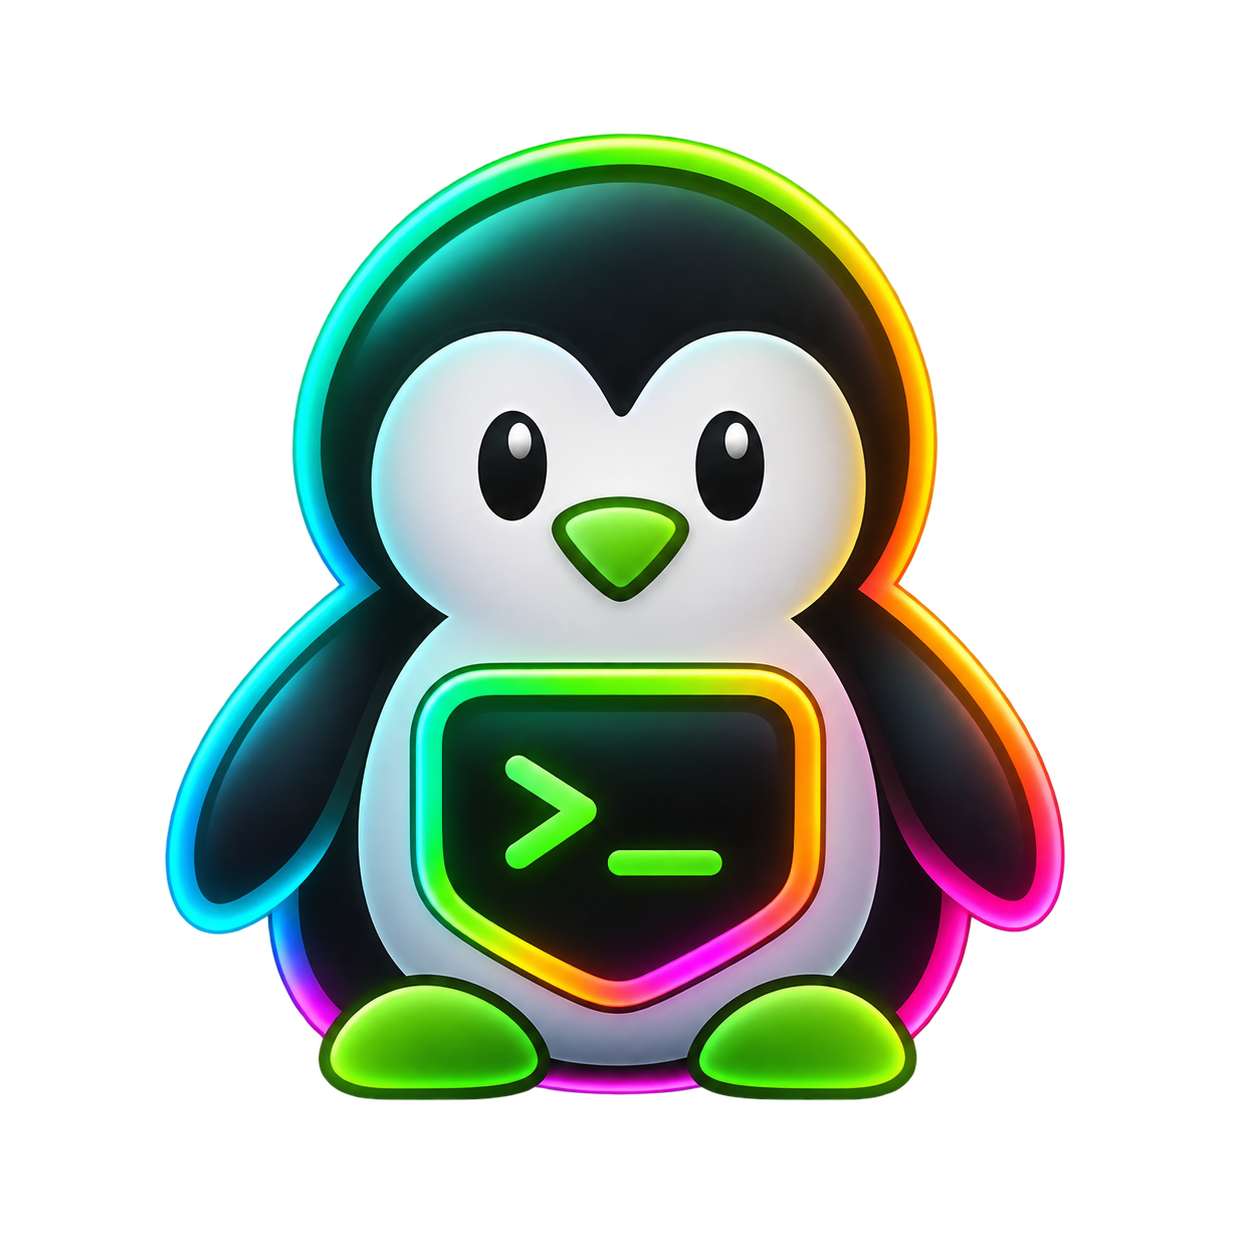
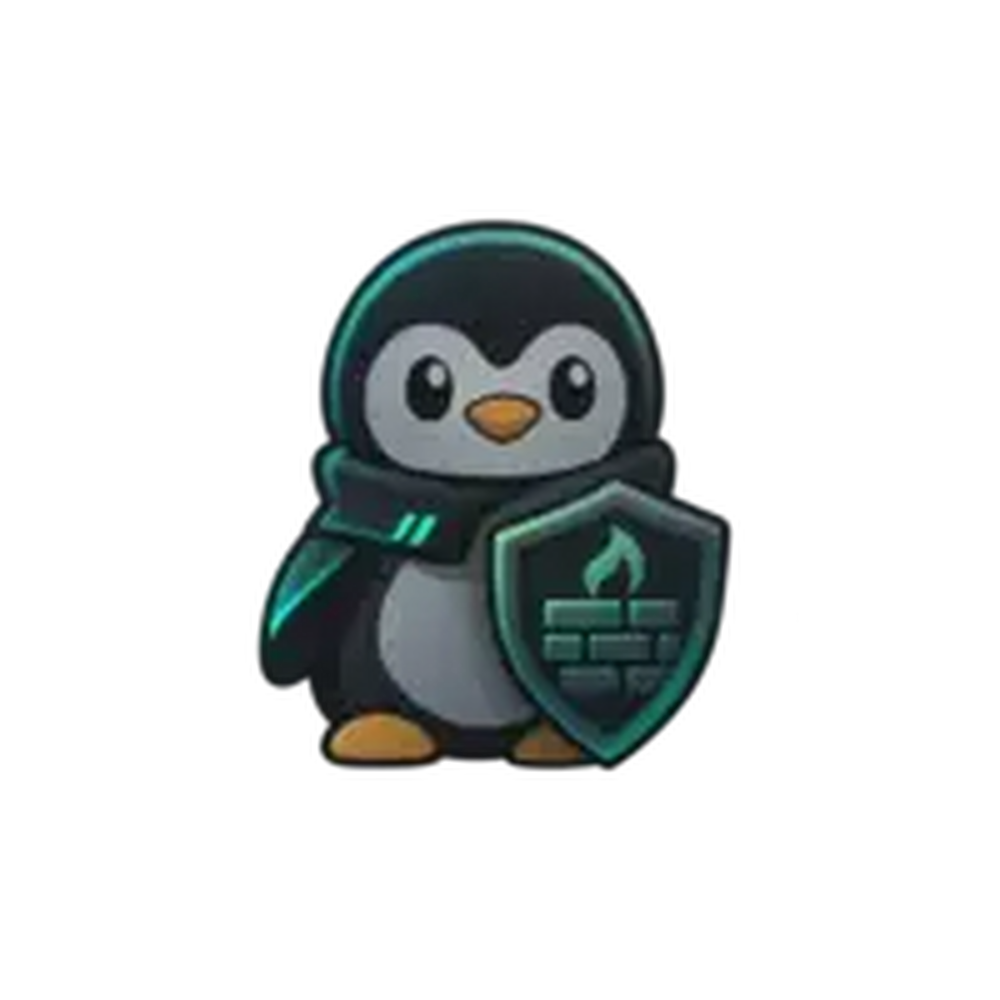
Add safe counter reset and muted shield branding for beta3

diff --git a/android/app/src/main/java/io/github/pocketufw/FirewallClient.kt b/android/app/src/main/java/io/github/pocketufw/FirewallClient.kt
@@ -39,7 +39,8 @@ internal class FirewallClient(private val context: Context) {
         val ipv4Replies: Long? = null,
         val ipv6Replies: Long? = null,
         val checkedAt: Long = 0L,
-        val error: String? = null
+        val error: String? = null,
+        val lastManualResetAt: Long = 0L
     ) {
         val measured: Boolean
             get() = error == null && ipv4Blocked != null && ipv6Blocked != null &&
@@ -145,7 +146,7 @@ internal class FirewallClient(private val context: Context) {
     private fun bridge(action: String, args: List<String> = emptyList()): ShellResult {
         check(action in setOf("inspect", "enable", "disable",
             "enable-restore", "toggle", "toggle-restore",
-            "boot-enable", "boot-disable", "vpn-refresh", "set-ports", "use-auto"))
+            "boot-enable", "boot-disable", "vpn-refresh", "reset-counters", "set-ports", "use-auto"))
         check((action == "set-ports" && args.size == 3) ||
             (action != "set-ports" && args.isEmpty()))
         val path = File(engineDir, "android-bridge").absolutePath
@@ -240,7 +241,8 @@ internal class FirewallClient(private val context: Context) {
                     ipv4Blocked = counts[0], ipv6Blocked = counts[1],
                     ipv4Bytes = counts[2], ipv6Bytes = counts[3],
                     ipv4Replies = counts[4], ipv6Replies = counts[5],
-                    checkedAt = System.currentTimeMillis()
+                    checkedAt = System.currentTimeMillis(),
+                    lastManualResetAt = preferences.getLong("last_counter_reset_at", 0L)
                 )
             }
         } else null
@@ -289,8 +291,13 @@ internal class FirewallClient(private val context: Context) {
         return (try {
             prepareEngine()
             val result = bridge(action, args)
-            val dashboard = dashboardFrom(result, vpn)
             val values = fields(result.text)
+            if (action == "reset-counters" && result.succeeded &&
+                values["operation"] == "SUCCESS" && values["state"] == "ACTIVE") {
+                preferences.edit()
+                    .putLong("last_counter_reset_at", System.currentTimeMillis()).apply()
+            }
+            val dashboard = dashboardFrom(result, vpn)
             val success = dashboard.snapshot.rootReady && values["operation"] == "SUCCESS"
             val message = if (!dashboard.snapshot.rootReady) {
                 "Root access is needed for this action."
@@ -328,6 +335,9 @@ internal class FirewallClient(private val context: Context) {
         performAction(if (enabled) "boot-enable" else "boot-disable")
 
     fun refreshVerifiedPorts(): Operation = performAction("vpn-refresh")
+
+    /** Reset ONLY PocketUFW-owned netfilter counters, with no rule changes. */
+    fun resetCounters(): Operation = performAction("reset-counters")
 
     private fun normalizeManualPort(value: String): String {
         val candidate = value.trim()

diff --git a/android/app/src/main/java/io/github/pocketufw/MainActivity.kt b/android/app/src/main/java/io/github/pocketufw/MainActivity.kt
@@ -430,6 +430,12 @@ private fun PocketScreen(client: FirewallClient) {
                                 val checked = DateFormat.getTimeInstance(DateFormat.SHORT)
                                     .format(Date(activity.checkedAt))
                                 Text("Last checked: " + checked, color = Muted, fontSize = 12.sp)
+                                if (activity.lastManualResetAt > 0L) {
+                                    val resetAt = DateFormat.getTimeInstance(DateFormat.SHORT)
+                                        .format(Date(activity.lastManualResetAt))
+                                    Text("Last manual counter reset: " + resetAt,
+                                        color = Muted, fontSize = 12.sp)
+                                }
                             } else {
                                 Text(
                                     activity?.error ?: "Waiting for the kernel counter read.",
@@ -446,7 +452,7 @@ private fun PocketScreen(client: FirewallClient) {
                                 color = Muted, fontSize = 12.sp)
                             Text(
                                 "These are real matches on PocketUFW rules, not detected attacks. " +
-                                    "Counts reset when rules are reinstalled. Earlier Android/OEM " +
+                                    "Counts reset on request or when rules are reinstalled. Earlier Android/OEM " +
                                     "rules or other interfaces may bypass these hooks.",
                                 color = Muted, fontSize = 12.sp, lineHeight = 18.sp
                             )
@@ -455,6 +461,11 @@ private fun PocketScreen(client: FirewallClient) {
                                 enabled = !busy,
                                 modifier = Modifier.fillMaxWidth()
                             ) { Text("Refresh counters", fontSize = 13.sp) }
+                            OutlinedButton(
+                                onClick = { perform { client.resetCounters() } },
+                                enabled = !busy && active && state.rootReady,
+                                modifier = Modifier.fillMaxWidth()
+                            ) { Text("Reset counters", fontSize = 13.sp) }
                         }
                     }
                 }

diff --git a/android/app/src/main/java/io/github/pocketufw/FirewallTileService.kt b/android/app/src/main/java/io/github/pocketufw/FirewallTileService.kt
@@ -80,7 +80,7 @@ class FirewallTileService : TileService() {
             status == FirewallClient.Protection.DEGRADED -> "Needs attention"
             else -> "Not verified this boot · Open app"
         }
-        tile.icon = Icon.createWithResource(this, R.drawable.penguin_quick_tile)
+        tile.icon = Icon.createWithResource(this, R.drawable.shield_quick_tile)
         tile.label = "PocketUFW"
         // Only a completed verification may display green. Unknown means
         // unknown, not a statement that kernel rules are switched off.

diff --git a/tests/test_pocketufw.py b/tests/test_pocketufw.py
@@ -24,6 +24,10 @@ case "$action" in
       iptables) dropped="${PUFW_TEST_DROP4:-0}"; replies="${PUFW_TEST_REPLIES4:-0}" ;;
       ip6tables) dropped="${PUFW_TEST_DROP6:-0}"; replies="${PUFW_TEST_REPLIES6:-0}" ;;
     esac
+    # Test-only persistent counters: reset must survive a CLI subprocess.
+    if [ -f "$state/$fam.counters" ]; then
+      read dropped replies < "$state/$fam.counters"
+    fi
     printf 'Chain %s (3 references)\n' "$name"
     printf '    pkts      bytes target     prot opt in out source destination\n'
     printf '      %s        500 ACCEPT     all  --  * * 0/0 0/0 ctstate ESTABLISHED,RELATED\n' "$replies"
@@ -50,8 +54,18 @@ case "$action" in
     [ -f "$file" ] || exit 1
     grep -Fqx -- "$*" "$file" ; exit $? ;;
 esac
-if [ -n "${PUFW_TEST_FAIL:-}" ] && [ "$action $name $*" = "$PUFW_TEST_FAIL" ]; then exit 7; fi
+if [ -n "${PUFW_TEST_FAIL:-}" ] &&
+   { [ "$action $name $*" = "$PUFW_TEST_FAIL" ] ||
+     [ "$action $name" = "$PUFW_TEST_FAIL" ]; } &&
+   { [ -z "${PUFW_TEST_FAIL_FAMILY:-}" ] || [ "$fam" = "$PUFW_TEST_FAIL_FAMILY" ]; }; then exit 7; fi
 case "$action" in
+  -Z)
+    [ -f "$file" ] || exit 1
+    case "$name" in POCKETUFW_IN|POCKETUFW_TS) : ;; *) exit 7 ;; esac
+    echo "$fam $name" >> "$state/zero_events"
+    if [ "$name" = POCKETUFW_IN ]; then
+      printf '0 0\n' > "$state/$fam.counters"
+    fi ;;
   -N)
     [ -f "$file" ] && exit 1
     : > "$file" ;;
@@ -573,6 +587,63 @@ class PocketUFWTests(unittest.TestCase):
         self.assertIn("Cannot read IPv4 counters", result.stderr)
         self.assertNotIn("ipv4_blocked=", result.stdout)
         self.assertEqual(self.run_cmd("disable").returncode, 0)
+
+    def test_reset_counters_only_owned_chains_no_rule_changes(self):
+        self.assertEqual(self.run_cmd('enable', '--tailscale-udp4', '46867',
+                                      '--tailscale-udp6', '43504').returncode, 0)
+        before = {
+            fam: {name: self.read(fam, name)
+                  for name in ('INPUT', 'POCKETUFW_IN', 'POCKETUFW_TS')}
+            for fam in ('iptables', 'ip6tables')
+        }
+        env = {'PUFW_TEST_DROP4': '120', 'PUFW_TEST_DROP6': '9',
+               'PUFW_TEST_REPLIES4': '600', 'PUFW_TEST_REPLIES6': '80'}
+        self.assertIn('ipv4_blocked=120', self.run_cmd('activity', extra_env=env).stdout)
+        reset = self.run_cmd('reset-counters', extra_env=env)
+        self.assertEqual(reset.returncode, 0, reset.stderr)
+        self.assertIn('owned counters reset', reset.stdout)
+        self.assertEqual(self.run_cmd('verify').stdout.strip(), 'ACTIVE')
+        counters = self.run_cmd('activity')
+        self.assertEqual(counters.returncode, 0, counters.stderr)
+        for name in ('ipv4_blocked', 'ipv6_blocked',
+                     'ipv4_established_replies', 'ipv6_established_replies'):
+            self.assertIn(f'{name}=0', counters.stdout)
+        self.assertEqual((self.base/'zero_events').read_text().splitlines(), [
+            'iptables POCKETUFW_IN', 'ip6tables POCKETUFW_IN',
+            'iptables POCKETUFW_TS', 'ip6tables POCKETUFW_TS'
+        ])
+        for fam, chains in before.items():
+            for name, original in chains.items():
+                self.assertEqual(self.read(fam, name), original)
+        self.assertEqual(self.run_cmd('disable').returncode, 0)
+
+    def test_reset_counters_refuses_inactive_and_degraded(self):
+        inactive = self.run_cmd('reset-counters')
+        self.assertNotEqual(inactive.returncode, 0)
+        self.assertIn('inactive or degraded', inactive.stderr)
+        self.assertFalse((self.base/'zero_events').exists())
+        self.assertEqual(self.run_cmd('enable').returncode, 0)
+        broken = self.base / 'ip6tables.POCKETUFW_IN'
+        broken.write_text(broken.read_text().replace('-j DROP\n', ''))
+        degraded = self.run_cmd('reset-counters')
+        self.assertNotEqual(degraded.returncode, 0)
+        self.assertFalse((self.base/'zero_events').exists())
+        self.assertEqual(self.run_cmd('disable').returncode, 0)
+
+    def test_reset_counters_partial_ipv6_failure_keeps_rules(self):
+        self.assertEqual(self.run_cmd('enable').returncode, 0)
+        original = self.read('iptables', 'INPUT')
+        failed = self.run_cmd('reset-counters', extra_env={
+            'PUFW_TEST_FAIL': '-Z POCKETUFW_IN',
+            'PUFW_TEST_FAIL_FAMILY': 'ip6tables'
+        })
+        self.assertNotEqual(failed.returncode, 0)
+        self.assertIn('IPv6 parent counter reset failed', failed.stderr)
+        self.assertEqual(self.read('iptables', 'INPUT'), original)
+        self.assertEqual(self.run_cmd('verify').stdout.strip(), 'ACTIVE')
+        self.assertEqual((self.base/'zero_events').read_text().splitlines(),
+                         ['iptables POCKETUFW_IN'])
+        self.assertEqual(self.run_cmd('disable').returncode, 0)
 
     def test_no_output_forward_changes(self):
         self.assertEqual(self.run_cmd('enable').returncode, 0)

diff --git a/tests/test_android_bridge.py b/tests/test_android_bridge.py
@@ -34,6 +34,7 @@ class AndroidBridgeTests(unittest.TestCase):
                         TEST_ENGINE_STATE=str(self.state),
                         TEST_BOOT_STATE=str(self.boot_state),
                         TEST_BRIDGE_LOG=str(self.log))
+        self.env['TEST_BRIDGE_RESET'] = str(self.root / 'reset-confirmation')
         fake_id = self.bin / "id"
         fake_id.write_text(
             "#!/bin/sh\n"
@@ -62,6 +63,9 @@ class AndroidBridgeTests(unittest.TestCase):
             "get-ports) [ \"$(cat \"$TEST_ENGINE_STATE\")\" = ACTIVE ] || exit 4; "
             "echo udp4=none; echo udp6=none ;;\n"
             "refresh) [ \"$(cat \"$TEST_ENGINE_STATE\")\" = ACTIVE ] ;;\n"
+            "reset-counters) [ \"$(cat \"$TEST_ENGINE_STATE\")\" = ACTIVE ] || exit 6; "
+            "[ \"$TEST_ENGINE_FAIL_RESET\" = 1 ] && exit 9; "
+            "echo yes > \"$TEST_BRIDGE_RESET\" ;;\n"
             "set-ports) [ \"$TEST_ENGINE_FAIL_MANUAL\" = 1 ] && exit 7; "
             "[ \"$(cat \"$TEST_ENGINE_STATE\")\" = ACTIVE ] ;;\n"
             "*) exit 8 ;;\n"
@@ -266,6 +270,32 @@ class AndroidBridgeTests(unittest.TestCase):
             self.assertEqual(values["operation"], "SUCCESS")
             self.assertEqual(values["boot"], expected)
             self.assertEqual(values["state"], "ACTIVE")
+
+    def test_reset_counters_uses_one_verified_root_action(self):
+        result, values = self.run_bridge('reset-counters')
+        self.assertEqual(result.returncode, 0, result.stderr)
+        self.assertEqual(values.get('operation'), 'SUCCESS')
+        self.assertEqual(values.get('state'), 'ACTIVE')
+        self.assertEqual(values.get('boot'), 'ENABLED')
+        self.assertIn('counters reset', values.get('message', '').lower())
+        self.assertTrue((self.root/'reset-confirmation').exists())
+        self.assertIn('engine:reset-counters', self.log.read_text())
+
+    def test_reset_counters_failure_keeps_firewall_active(self):
+        result, values = self.run_bridge('reset-counters',
+                                         {'TEST_ENGINE_FAIL_RESET': '1'})
+        self.assertEqual(result.returncode, 0, result.stderr)
+        self.assertEqual(values.get('operation'), 'FAILED')
+        self.assertEqual(values.get('state'), 'ACTIVE')
+        self.assertFalse((self.root/'reset-confirmation').exists())
+
+    def test_reset_counters_refuses_inactive(self):
+        self.state.write_text('INACTIVE\n')
+        result, values = self.run_bridge('reset-counters')
+        self.assertEqual(result.returncode, 0, result.stderr)
+        self.assertEqual(values.get('operation'), 'FAILED')
+        self.assertEqual(values.get('state'), 'INACTIVE')
+        self.assertFalse((self.root/'reset-confirmation').exists())
 
     def test_unavailable_counters_fall_back_to_rule_verification(self):
         result, values = self.run_bridge("inspect",

diff --git a/tests/test_quick_settings_contract.py b/tests/test_quick_settings_contract.py
@@ -64,31 +64,27 @@ class QuickSettingsContractTests(unittest.TestCase):
     def store_code(cls):
         return (PROJECT / 'android/app/src/main/java/io/github/pocketufw/TileStatusStore.kt').read_text()
 
-    def test_quick_tile_is_circular_with_single_large_penguin_face(self):
+    def test_quick_tile_is_a_single_tint_safe_shield(self):
         import xml.etree.ElementTree as ET
         ns = '{http://schemas.android.com/apk/res/android}'
-        icon = PROJECT / 'android/app/src/main/res/drawable/penguin_quick_tile.xml'
+        icon = PROJECT / 'android/app/src/main/res/drawable/shield_quick_tile.xml'
         launcher = PROJECT / 'android/app/src/main/res/mipmap-anydpi-v26/ic_launcher.xml'
+        self.assertTrue(icon.exists())
+        self.assertFalse((icon.parent / 'penguin_quick_tile.xml').exists())
         root = ET.parse(icon).getroot()
         paths = root.findall('path')
-        self.assertEqual(len(paths), 2)
-        self.assertEqual(paths[0].attrib[ns + 'fillColor'], '#00000000')
-        self.assertEqual(paths[0].attrib[ns + 'strokeColor'], '#FFFFFFFF')
-        self.assertIn('M54,7 C28,7 8,28 8,54', paths[0].attrib[ns + 'pathData'])
-        self.assertEqual(paths[1].attrib[ns + 'fillColor'], '#FFFFFFFF')
-        self.assertEqual(paths[1].attrib[ns + 'fillType'], 'evenOdd')
-        face = paths[1].attrib[ns + 'pathData']
-        self.assertIn('M54,42 C46,29 32,32 28,46', face)
-        self.assertIn('M44.7,51 C44.7,53.8', face)
-        self.assertIn('M71.3,51 C71.3,53.8', face)
-        self.assertIn('M47.5,63 Q54,60 60.5,63', face)
-        self.assertEqual(face.count(' Z'), 4)
-        # Only QS icon changes; preserve the neon and themed launcher icon.
+        self.assertEqual(len(paths), 1)
+        for path in paths:
+            self.assertEqual(path.attrib[ns + 'fillColor'], '#00000000')
+            self.assertEqual(path.attrib[ns + 'strokeColor'], '#FFFFFFFF')
+        self.assertIn('M54,11 L89,24 L89,52', paths[0].attrib[ns + 'pathData'])
+        # The shield tile doesn't replace the themed/launcher penguin.
         self.assertIn('@drawable/penguin_monochrome', launcher.read_text())
-        self.assertIn('R.drawable.penguin_quick_tile', self.tile_code())
+        self.assertIn('R.drawable.shield_quick_tile', self.tile_code())
         services = self.root.findall('./application/service')
         self.assertEqual(services[0].attrib[ns + 'icon'],
-                         '@drawable/penguin_quick_tile')
+                         '@drawable/shield_quick_tile')
+
 
     def test_tile_unlocks_before_security_sensitive_toggle(self):
         code = self.tile_code()

diff --git a/tests/test_fdroid_metadata.py b/tests/test_fdroid_metadata.py
@@ -10,10 +10,10 @@ GRADLE = ROOT / "android/app/build.gradle.kts"
 
 
 class FDroidMetadataTests(unittest.TestCase):
-    def test_version_and_changelog_match_beta2(self):
+    def test_version_and_changelog_match_beta3(self):
         gradle = GRADLE.read_text()
-        self.assertRegex(gradle, r'versionCode\s*=\s*23\b')
-        self.assertIn('versionName = "0.1.0-beta2"', gradle)
+        self.assertRegex(gradle, r'versionCode\s*=\s*24\b')
+        self.assertIn('versionName = "0.1.0-beta3"', gradle)
         self.assertIn('applicationId = "io.github.pocketufw"', gradle)
         self.assertIn('namespace = "io.github.pocketufw"', gradle)
         self.assertNotIn('io.github.pocketufw.alpha', gradle)
@@ -23,7 +23,7 @@ class FDroidMetadataTests(unittest.TestCase):
         for script in ('boot-service', 'udp-config'):
             self.assertNotIn('io.github.pocketufw.alpha',
                              (ROOT / script).read_text())
-        notes = (META / "changelogs/23.txt").read_text()
+        notes = (META / "changelogs/24.txt").read_text()
         self.assertTrue(10 < len(notes.strip()) <= 500)
 
     def test_listing_is_present_and_accurate(self):

diff --git a/tests/test_branding_icon_pack.py b/tests/test_branding_icon_pack.py
@@ -11,6 +11,12 @@ AN = "{http://schemas.android.com/apk/res/android}"
 
 
 class BrandingIconPackTests(unittest.TestCase):
+    def test_release_companion_iconpack_has_upgrade_version(self):
+        build = (PACK / "build.gradle.kts").read_text()
+        self.assertIn('applicationId = "io.github.pocketufw.neonicons"', build)
+        self.assertIn('versionCode = 2', build)
+        self.assertIn('versionName = "1.1"', build)
+
     def test_icon_pack_requires_no_permissions_or_services(self):
         manifest = ET.parse(PACK / "src/main/AndroidManifest.xml").getroot()
         self.assertEqual(manifest.findall("uses-permission"), [])

diff --git a/android/README.md b/android/README.md
@@ -1,6 +1,6 @@
 # PocketUFW Android beta
 
-**0.1.0-beta2 (versionCode 23)** is a testing release of the one-switch
+**0.1.0-beta3 (versionCode 24)** is a testing release of the one-switch
 Android root firewall, not a production security guarantee. Pixel 9a and
 Moto G 5G (2024) have been hardware tested; other Android variants may
 behave differently. Root and legacy iptables/ip6tables support are required.
@@ -13,6 +13,20 @@ PocketUFW's own saved preferences. Turn protection off first to disarm the
 Magisk boot hook and remove the owned rules. Tailscale and WireGuard
 configurations belong to their own applications and are not removed.
 
+## Beta3: safe counter reset and visual cleanup
+
+The **Reset counters** action verifies both kernel firewall families before
+zeroing only PocketUFW-owned inbound and Tailscale child counters, using
+iptables/ip6tables -Z on the exact owned chains. It does not flush or
+reinstall any rules or change the VPN, INPUT policy, or Magisk boot hook.
+Counters can start incrementing immediately, and a partial failure is
+reported rather than fabricating zeroes. The Home screen shows the time of
+the last successful manual reset, not a claim about resets on reboot.
+
+The active Quick Settings tile uses a white, tint-safe shield with no penguin;
+the adaptive launcher image and Neon icon pack use quieter penguin-with-shield
+artwork. All other firewall behavior is unchanged.
+
 ## Permanent Android identity starting beta2
 
 The published beta1 used the experimental package identity
@@ -24,7 +38,7 @@ then enable protection and optional boot restoration in its UI.
 Tailscale and WireGuard configurations remain independent.
 Earlier beta1 remains an immutable public release.
 
-## Historical alpha15 branding milestone## New in the source-only alpha15 build (not yet installed on Pixel)
+## Historical alpha15 branding milestone
 
 - The approved neon terminal penguin is the official launcher/adaptive icon
   and Home illustration; the themed monochrome icon and Quick Settings tile

diff --git a/android/iconpack/README.md b/android/iconpack/README.md
@@ -12,7 +12,15 @@ and has no launcher entry or background service.
 The icon automatically maps to io.github.pocketufw.MainActivity.
 This separate pack does not alter installed Blaze or Android firewall state.
 
-Build: cd android && ./gradlew :iconpack:assembleDebug
-APK: android/iconpack/build/outputs/apk/debug/iconpack-debug.apk
+Version 1.1 refreshes the Neon penguin with a muted shield-holding design.
+The official companion APK is now built from the release variant and signed
+with PocketUFW's dedicated release key; it can update in place on future versions.
+Earlier debug-signed icon pack builds cannot update in place because Android
+requires matching signatures. Uninstall the old **Neon icon pack only** and
+install the newly signed companion APK, then reselect it in Niagara if needed.
+Removing this icon pack does not touch PocketUFW or its kernel firewall rules.
+
+Build: cd android && ./gradlew :iconpack:assembleRelease
+Unsigned APK: android/iconpack/build/outputs/apk/release/iconpack-release-unsigned.apk
 
 Original image: assets/branding/pocketufw-neon-penguin.png.

diff --git a/README.md b/README.md
@@ -3,7 +3,7 @@
 **A UFW-inspired inbound-only firewall beta for rooted Android.**
 
 PocketUFW is independent software, not UFW and not affiliated with Canonical.
-The version 0.1.0-beta1 release is intended for testing, not unattended or
+The version 0.1.0-beta3 release is intended for testing, not unattended or
 production security use. It uses Android's existing IPv4 and IPv6 kernel
 firewall, leaves outgoing traffic unchanged and provides one protection switch,
 readable rules, counters, optional one-shot Magisk boot restoration, and manual
@@ -17,6 +17,10 @@ for details and limitations.
 the app ID is `io.github.pocketufw`. The earlier beta1 used the
 temporary `io.github.pocketufw.alpha` ID. This one-time change
 requires uninstalling the old app before using the renamed version.
+
+**Beta3:** A manual **Reset counters** action zeroes only owned IPv4/IPv6
+packet counters, without restarting protection; a reduced-glow shield-penguin
+launcher image and a shield-only Quick Settings tile complete the beta polish.
 
 ## Design philosophy
 
